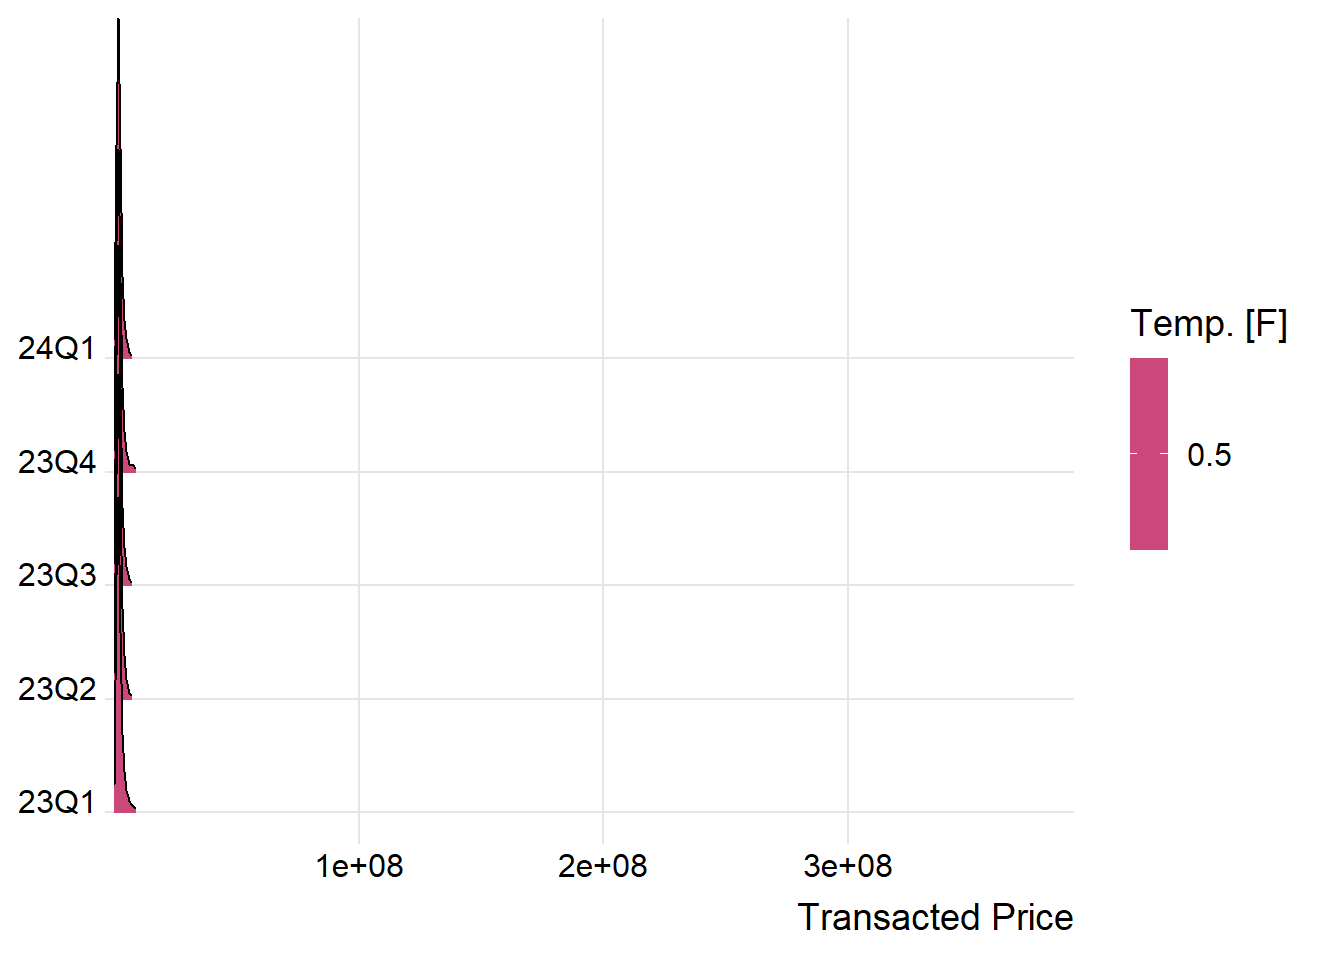
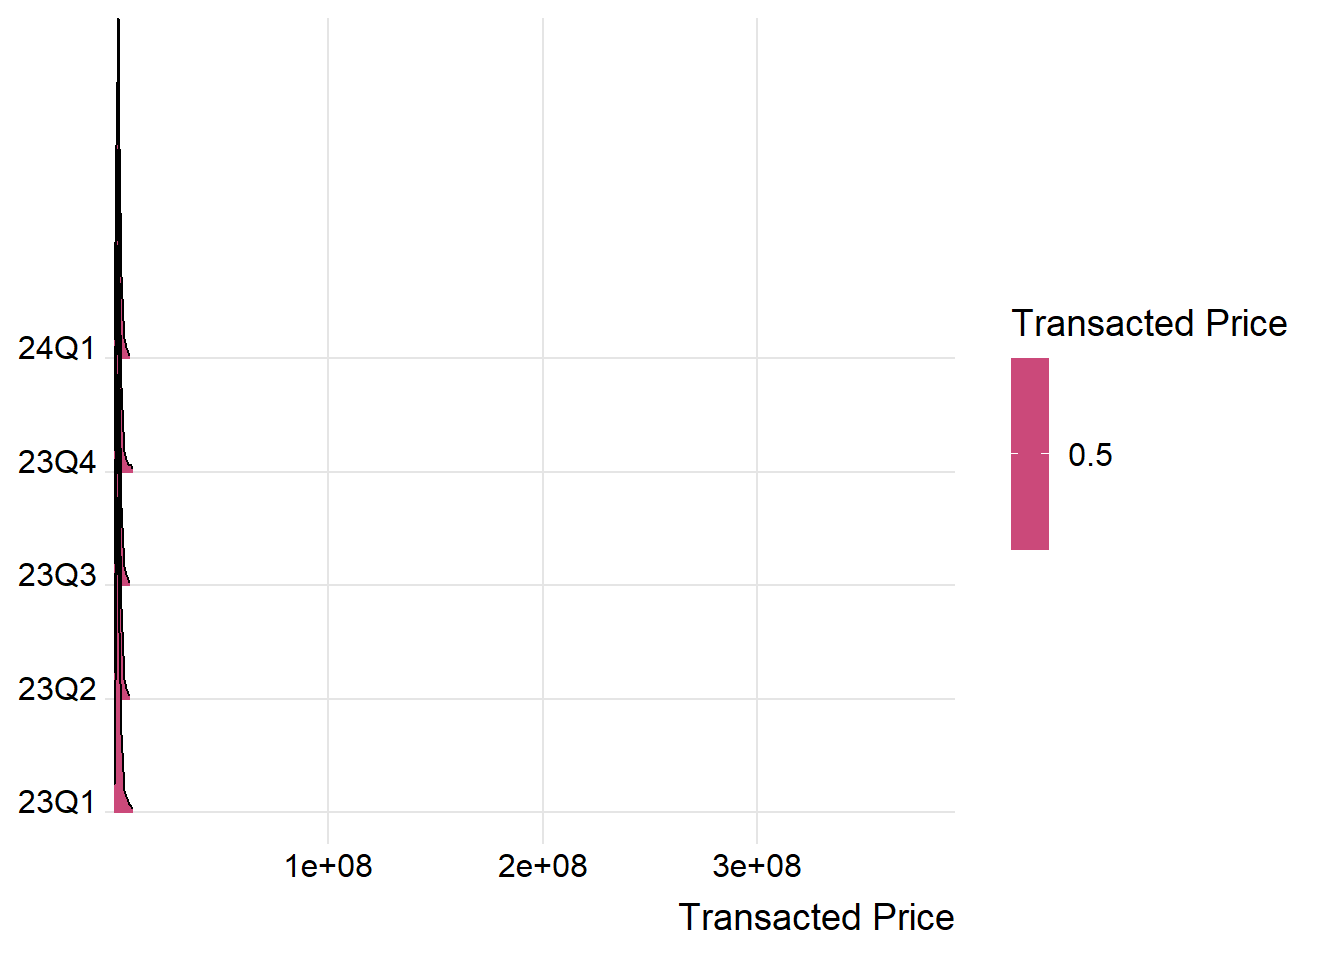
commit

diff --git a/_site/Take-home Exercise/Take-home_Ex01/Take-home_Ex01.html b/_site/Take-home Exercise/Take-home_Ex01/Take-home_Ex01.html
@@ -450,9 +450,7 @@ $ Quarter                       &lt;chr&gt; "23Q1", "23Q1", "23Q1", "23Q1", "23Q
 <div class="cell">
 <div class="sourceCode cell-code" id="cb8"><pre class="sourceCode r code-with-copy"><code class="sourceCode r"><span id="cb8-1"><a href="#cb8-1" aria-hidden="true" tabindex="-1"></a><span class="fu">ggplot</span>(<span class="at">data =</span> df, </span>
 <span id="cb8-2"><a href="#cb8-2" aria-hidden="true" tabindex="-1"></a>       <span class="fu">aes</span>(<span class="at">y =</span> <span class="st">`</span><span class="at">Transacted Price ($)</span><span class="st">`</span>, <span class="at">x =</span> Quarter)) <span class="sc">+</span></span>
-<span id="cb8-3"><a href="#cb8-3" aria-hidden="true" tabindex="-1"></a>  <span class="fu">geom_boxplot_interactive</span>(</span>
-<span id="cb8-4"><a href="#cb8-4" aria-hidden="true" tabindex="-1"></a>    <span class="fu">aes</span>(<span class="at">tooltip =</span> <span class="st">`</span><span class="at">Transacted Price ($)</span><span class="st">`</span>)</span>
-<span id="cb8-5"><a href="#cb8-5" aria-hidden="true" tabindex="-1"></a>  ) </span></code><button title="Copy to Clipboard" class="code-copy-button"><i class="bi"></i></button></pre></div>
+<span id="cb8-3"><a href="#cb8-3" aria-hidden="true" tabindex="-1"></a>  <span class="fu">geom_boxplot</span>()</span></code><button title="Copy to Clipboard" class="code-copy-button"><i class="bi"></i></button></pre></div>
 <div class="cell-output-display">
 <div>
 <figure class="figure">
@@ -471,7 +469,7 @@ $ Quarter                       &lt;chr&gt; "23Q1", "23Q1", "23Q1", "23Q1", "23Q
 <span id="cb9-5"><a href="#cb9-5" aria-hidden="true" tabindex="-1"></a>  <span class="fu">geom_density_ridges_gradient</span>(</span>
 <span id="cb9-6"><a href="#cb9-6" aria-hidden="true" tabindex="-1"></a>    <span class="at">scale =</span> <span class="dv">3</span>,</span>
 <span id="cb9-7"><a href="#cb9-7" aria-hidden="true" tabindex="-1"></a>    <span class="at">rel_min_height =</span> <span class="fl">0.01</span>) <span class="sc">+</span></span>
-<span id="cb9-8"><a href="#cb9-8" aria-hidden="true" tabindex="-1"></a>  <span class="fu">scale_fill_viridis_c</span>(<span class="at">name =</span> <span class="st">"Temp. [F]"</span>,</span>
+<span id="cb9-8"><a href="#cb9-8" aria-hidden="true" tabindex="-1"></a>  <span class="fu">scale_fill_viridis_c</span>(<span class="at">name =</span> <span class="st">"Transacted Price"</span>,</span>
 <span id="cb9-9"><a href="#cb9-9" aria-hidden="true" tabindex="-1"></a>                       <span class="at">option =</span> <span class="st">"C"</span>) <span class="sc">+</span></span>
 <span id="cb9-10"><a href="#cb9-10" aria-hidden="true" tabindex="-1"></a>  <span class="fu">scale_x_continuous</span>(</span>
 <span id="cb9-11"><a href="#cb9-11" aria-hidden="true" tabindex="-1"></a>    <span class="at">name =</span> <span class="st">"Transacted Price"</span>,</span>
@@ -491,9 +489,10 @@ $ Quarter                       &lt;chr&gt; "23Q1", "23Q1", "23Q1", "23Q1", "23Q
 </div>
 </div>
 <div class="cell">
-<div class="sourceCode cell-code" id="cb10"><pre class="sourceCode r code-with-copy"><code class="sourceCode r"><span id="cb10-1"><a href="#cb10-1" aria-hidden="true" tabindex="-1"></a><span class="fu">ggplot</span>(<span class="at">data =</span> data<span class="fl">.24</span>Q1, </span>
-<span id="cb10-2"><a href="#cb10-2" aria-hidden="true" tabindex="-1"></a>       <span class="fu">aes</span>(<span class="at">x=</span><span class="st">`</span><span class="at">Type of Area</span><span class="st">`</span>)) <span class="sc">+</span></span>
-<span id="cb10-3"><a href="#cb10-3" aria-hidden="true" tabindex="-1"></a>  <span class="fu">geom_bar</span>() </span></code><button title="Copy to Clipboard" class="code-copy-button"><i class="bi"></i></button></pre></div>
+<div class="sourceCode cell-code" id="cb10"><pre class="sourceCode r code-with-copy"><code class="sourceCode r"><span id="cb10-1"><a href="#cb10-1" aria-hidden="true" tabindex="-1"></a><span class="fu">ggplot</span>(<span class="at">data =</span> df, </span>
+<span id="cb10-2"><a href="#cb10-2" aria-hidden="true" tabindex="-1"></a>       <span class="fu">aes</span>(<span class="at">x=</span><span class="st">`</span><span class="at">Type of Area</span><span class="st">`</span>,</span>
+<span id="cb10-3"><a href="#cb10-3" aria-hidden="true" tabindex="-1"></a>           <span class="at">fill =</span> <span class="st">`</span><span class="at">Type of Sale</span><span class="st">`</span>)) <span class="sc">+</span></span>
+<span id="cb10-4"><a href="#cb10-4" aria-hidden="true" tabindex="-1"></a>  <span class="fu">geom_bar</span>() </span></code><button title="Copy to Clipboard" class="code-copy-button"><i class="bi"></i></button></pre></div>
 <div class="cell-output-display">
 <div>
 <figure class="figure">
@@ -502,16 +501,74 @@ $ Quarter                       &lt;chr&gt; "23Q1", "23Q1", "23Q1", "23Q1", "23Q
 </div>
 </div>
 </div>
+<p>Looking at the bar chart above, it might be a good way to filter the data based on Type of Area to do further analysis.</p>
 <div class="cell">
-<div class="sourceCode cell-code" id="cb11"><pre class="sourceCode r code-with-copy"><code class="sourceCode r"><span id="cb11-1"><a href="#cb11-1" aria-hidden="true" tabindex="-1"></a><span class="fu">ggplot</span>(<span class="at">data =</span> df,</span>
-<span id="cb11-2"><a href="#cb11-2" aria-hidden="true" tabindex="-1"></a>       <span class="fu">aes</span>(<span class="at">x =</span><span class="st">`</span><span class="at">Planning Area</span><span class="st">`</span>,</span>
-<span id="cb11-3"><a href="#cb11-3" aria-hidden="true" tabindex="-1"></a>           <span class="at">fill =</span> <span class="st">`</span><span class="at">Type of Sale</span><span class="st">`</span>)) <span class="sc">+</span></span>
-<span id="cb11-4"><a href="#cb11-4" aria-hidden="true" tabindex="-1"></a>  <span class="fu">geom_bar</span>() <span class="sc">+</span></span>
-<span id="cb11-5"><a href="#cb11-5" aria-hidden="true" tabindex="-1"></a>  <span class="fu">theme</span>(<span class="at">axis.text.x =</span> <span class="fu">element_text</span>(<span class="at">angle =</span> <span class="dv">90</span>, <span class="at">vjust =</span> <span class="fl">0.5</span>, <span class="at">hjust=</span><span class="dv">1</span>))</span></code><button title="Copy to Clipboard" class="code-copy-button"><i class="bi"></i></button></pre></div>
+<div class="sourceCode cell-code" id="cb11"><pre class="sourceCode r code-with-copy"><code class="sourceCode r"><span id="cb11-1"><a href="#cb11-1" aria-hidden="true" tabindex="-1"></a>land_df <span class="ot">&lt;-</span> <span class="fu">filter</span>(df, <span class="st">`</span><span class="at">Type of Area</span><span class="st">`</span> <span class="sc">==</span> <span class="st">'Land'</span>)</span>
+<span id="cb11-2"><a href="#cb11-2" aria-hidden="true" tabindex="-1"></a>strata_df<span class="ot">&lt;-</span> <span class="fu">filter</span>(df, <span class="st">`</span><span class="at">Type of Area</span><span class="st">`</span> <span class="sc">==</span> <span class="st">'Strata'</span>)</span></code><button title="Copy to Clipboard" class="code-copy-button"><i class="bi"></i></button></pre></div>
+</div>
+<div class="cell">
+<div class="sourceCode cell-code" id="cb12"><pre class="sourceCode r code-with-copy"><code class="sourceCode r"><span id="cb12-1"><a href="#cb12-1" aria-hidden="true" tabindex="-1"></a><span class="fu">ggplot</span>(<span class="at">data =</span> land_df, </span>
+<span id="cb12-2"><a href="#cb12-2" aria-hidden="true" tabindex="-1"></a>       <span class="fu">aes</span>(<span class="at">y =</span> <span class="st">`</span><span class="at">Transacted Price ($)</span><span class="st">`</span>, <span class="at">x =</span> Quarter)) <span class="sc">+</span></span>
+<span id="cb12-3"><a href="#cb12-3" aria-hidden="true" tabindex="-1"></a>  <span class="fu">geom_boxplot</span>()</span></code><button title="Copy to Clipboard" class="code-copy-button"><i class="bi"></i></button></pre></div>
 <div class="cell-output-display">
 <div>
 <figure class="figure">
-<p><img src="Take-home_Ex01_files/figure-html/unnamed-chunk-10-1.png" class="img-fluid figure-img" width="672"></p>
+<p><img src="Take-home_Ex01_files/figure-html/unnamed-chunk-11-1.png" class="img-fluid figure-img" width="672"></p>
+</figure>
+</div>
+</div>
+</div>
+<div class="cell">
+<div class="sourceCode cell-code" id="cb13"><pre class="sourceCode r code-with-copy"><code class="sourceCode r"><span id="cb13-1"><a href="#cb13-1" aria-hidden="true" tabindex="-1"></a><span class="fu">ggplot</span>(<span class="at">data =</span> land_df ,</span>
+<span id="cb13-2"><a href="#cb13-2" aria-hidden="true" tabindex="-1"></a>       <span class="fu">aes</span>(<span class="at">x =</span> <span class="st">`</span><span class="at">Transacted Price ($)</span><span class="st">`</span>,</span>
+<span id="cb13-3"><a href="#cb13-3" aria-hidden="true" tabindex="-1"></a>           <span class="at">y =</span> Quarter,</span>
+<span id="cb13-4"><a href="#cb13-4" aria-hidden="true" tabindex="-1"></a>           <span class="at">fill =</span> <span class="fl">0.5</span>)) <span class="sc">+</span></span>
+<span id="cb13-5"><a href="#cb13-5" aria-hidden="true" tabindex="-1"></a>  <span class="fu">geom_density_ridges_gradient</span>(</span>
+<span id="cb13-6"><a href="#cb13-6" aria-hidden="true" tabindex="-1"></a>    <span class="at">scale =</span> <span class="dv">3</span>,</span>
+<span id="cb13-7"><a href="#cb13-7" aria-hidden="true" tabindex="-1"></a>    <span class="at">rel_min_height =</span> <span class="fl">0.01</span>) <span class="sc">+</span></span>
+<span id="cb13-8"><a href="#cb13-8" aria-hidden="true" tabindex="-1"></a>  <span class="fu">scale_fill_viridis_c</span>(<span class="at">name =</span> <span class="st">"Transacted Price"</span>,</span>
+<span id="cb13-9"><a href="#cb13-9" aria-hidden="true" tabindex="-1"></a>                       <span class="at">option =</span> <span class="st">"C"</span>) <span class="sc">+</span></span>
+<span id="cb13-10"><a href="#cb13-10" aria-hidden="true" tabindex="-1"></a>  <span class="fu">scale_x_continuous</span>(</span>
+<span id="cb13-11"><a href="#cb13-11" aria-hidden="true" tabindex="-1"></a>    <span class="at">name =</span> <span class="st">"Transacted Price"</span>,</span>
+<span id="cb13-12"><a href="#cb13-12" aria-hidden="true" tabindex="-1"></a>    <span class="at">expand =</span> <span class="fu">c</span>(<span class="dv">0</span>,<span class="dv">0</span>)</span>
+<span id="cb13-13"><a href="#cb13-13" aria-hidden="true" tabindex="-1"></a>  ) <span class="sc">+</span></span>
+<span id="cb13-14"><a href="#cb13-14" aria-hidden="true" tabindex="-1"></a>  <span class="fu">scale_y_discrete</span>(</span>
+<span id="cb13-15"><a href="#cb13-15" aria-hidden="true" tabindex="-1"></a>    <span class="at">name =</span> <span class="cn">NULL</span>,</span>
+<span id="cb13-16"><a href="#cb13-16" aria-hidden="true" tabindex="-1"></a>    <span class="at">expand =</span> <span class="fu">expansion</span>(<span class="at">add =</span> <span class="fu">c</span>(<span class="fl">0.2</span>,<span class="fl">2.6</span>))</span>
+<span id="cb13-17"><a href="#cb13-17" aria-hidden="true" tabindex="-1"></a>  ) <span class="sc">+</span></span>
+<span id="cb13-18"><a href="#cb13-18" aria-hidden="true" tabindex="-1"></a>  <span class="fu">theme_ridges</span>()</span></code><button title="Copy to Clipboard" class="code-copy-button"><i class="bi"></i></button></pre></div>
+<div class="cell-output-display">
+<div>
+<figure class="figure">
+<p><img src="Take-home_Ex01_files/figure-html/unnamed-chunk-12-1.png" class="img-fluid figure-img" width="672"></p>
+</figure>
+</div>
+</div>
+</div>
+<p>Although the</p>
+<div class="cell">
+<div class="sourceCode cell-code" id="cb14"><pre class="sourceCode r code-with-copy"><code class="sourceCode r"><span id="cb14-1"><a href="#cb14-1" aria-hidden="true" tabindex="-1"></a><span class="fu">ggplot</span>(<span class="at">data =</span> strata_df, </span>
+<span id="cb14-2"><a href="#cb14-2" aria-hidden="true" tabindex="-1"></a>       <span class="fu">aes</span>(<span class="at">y =</span> <span class="st">`</span><span class="at">Transacted Price ($)</span><span class="st">`</span>, <span class="at">x =</span> Quarter)) <span class="sc">+</span></span>
+<span id="cb14-3"><a href="#cb14-3" aria-hidden="true" tabindex="-1"></a>  <span class="fu">geom_boxplot</span>()</span></code><button title="Copy to Clipboard" class="code-copy-button"><i class="bi"></i></button></pre></div>
+<div class="cell-output-display">
+<div>
+<figure class="figure">
+<p><img src="Take-home_Ex01_files/figure-html/unnamed-chunk-13-1.png" class="img-fluid figure-img" width="672"></p>
+</figure>
+</div>
+</div>
+</div>
+<p>Looking</p>
+<div class="cell">
+<div class="sourceCode cell-code" id="cb15"><pre class="sourceCode r code-with-copy"><code class="sourceCode r"><span id="cb15-1"><a href="#cb15-1" aria-hidden="true" tabindex="-1"></a><span class="fu">ggplot</span>(<span class="at">data =</span> df,</span>
+<span id="cb15-2"><a href="#cb15-2" aria-hidden="true" tabindex="-1"></a>       <span class="fu">aes</span>(<span class="at">x =</span><span class="st">`</span><span class="at">Planning Area</span><span class="st">`</span>,</span>
+<span id="cb15-3"><a href="#cb15-3" aria-hidden="true" tabindex="-1"></a>           <span class="at">fill =</span> <span class="st">`</span><span class="at">Type of Sale</span><span class="st">`</span>)) <span class="sc">+</span></span>
+<span id="cb15-4"><a href="#cb15-4" aria-hidden="true" tabindex="-1"></a>  <span class="fu">geom_bar</span>() <span class="sc">+</span></span>
+<span id="cb15-5"><a href="#cb15-5" aria-hidden="true" tabindex="-1"></a>  <span class="fu">theme</span>(<span class="at">axis.text.x =</span> <span class="fu">element_text</span>(<span class="at">angle =</span> <span class="dv">90</span>, <span class="at">vjust =</span> <span class="fl">0.5</span>, <span class="at">hjust=</span><span class="dv">1</span>))</span></code><button title="Copy to Clipboard" class="code-copy-button"><i class="bi"></i></button></pre></div>
+<div class="cell-output-display">
+<div>
+<figure class="figure">
+<p><img src="Take-home_Ex01_files/figure-html/unnamed-chunk-14-1.png" class="img-fluid figure-img" width="672"></p>
 </figure>
 </div>
 </div>
